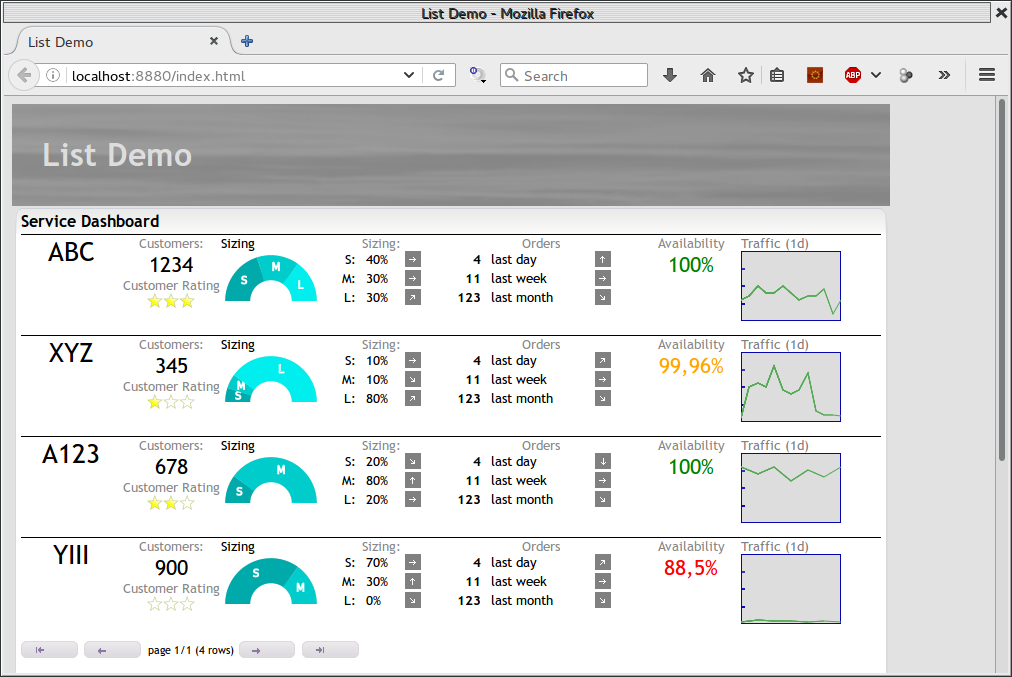
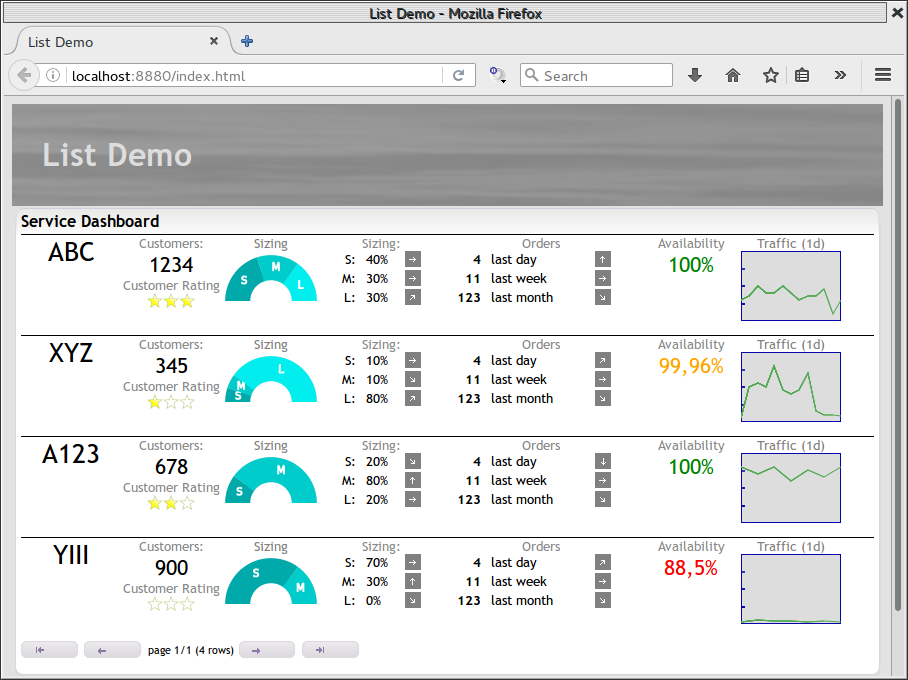
improve CSS

diff --git a/examples/list/index.js b/examples/list/index.js
@@ -12,13 +12,13 @@ gui.getExpress().use( '/img-cust', express.static( __dirname + '/img-cust' ) )
 // define a main page
 var mainPage = gui.init( 'List Demo', 8880 )
 mainPage.setTitle( 'List Demo' )
-mainPage.setPageWidth( '90%' )
+mainPage.setPageWidth( '100%' )
   
 mainPage.addView( 
     { 
       id:'row1view', 
       title:'Service Dashboard',
-      height:'700px', 
+      height:'470px', 
       type:'pong-list',
       resourceURL:'/service/statistics'
     },

diff --git a/examples/list/custom.css b/examples/list/custom.css
@@ -164,6 +164,8 @@ body {
 }
 .pongListCellSizeGlb {
 	width: 100px;
+	color: gray;
+	text-align: center;
 }
 .pongListCellSizeStat {
 	width:100px;
@@ -176,6 +178,7 @@ body {
 .pongListCellUsageLb {
 	width: 100px;
 	color: gray;
+	text-align: center;
 }
 .pongListCellUsage {
 	width: 100px;
